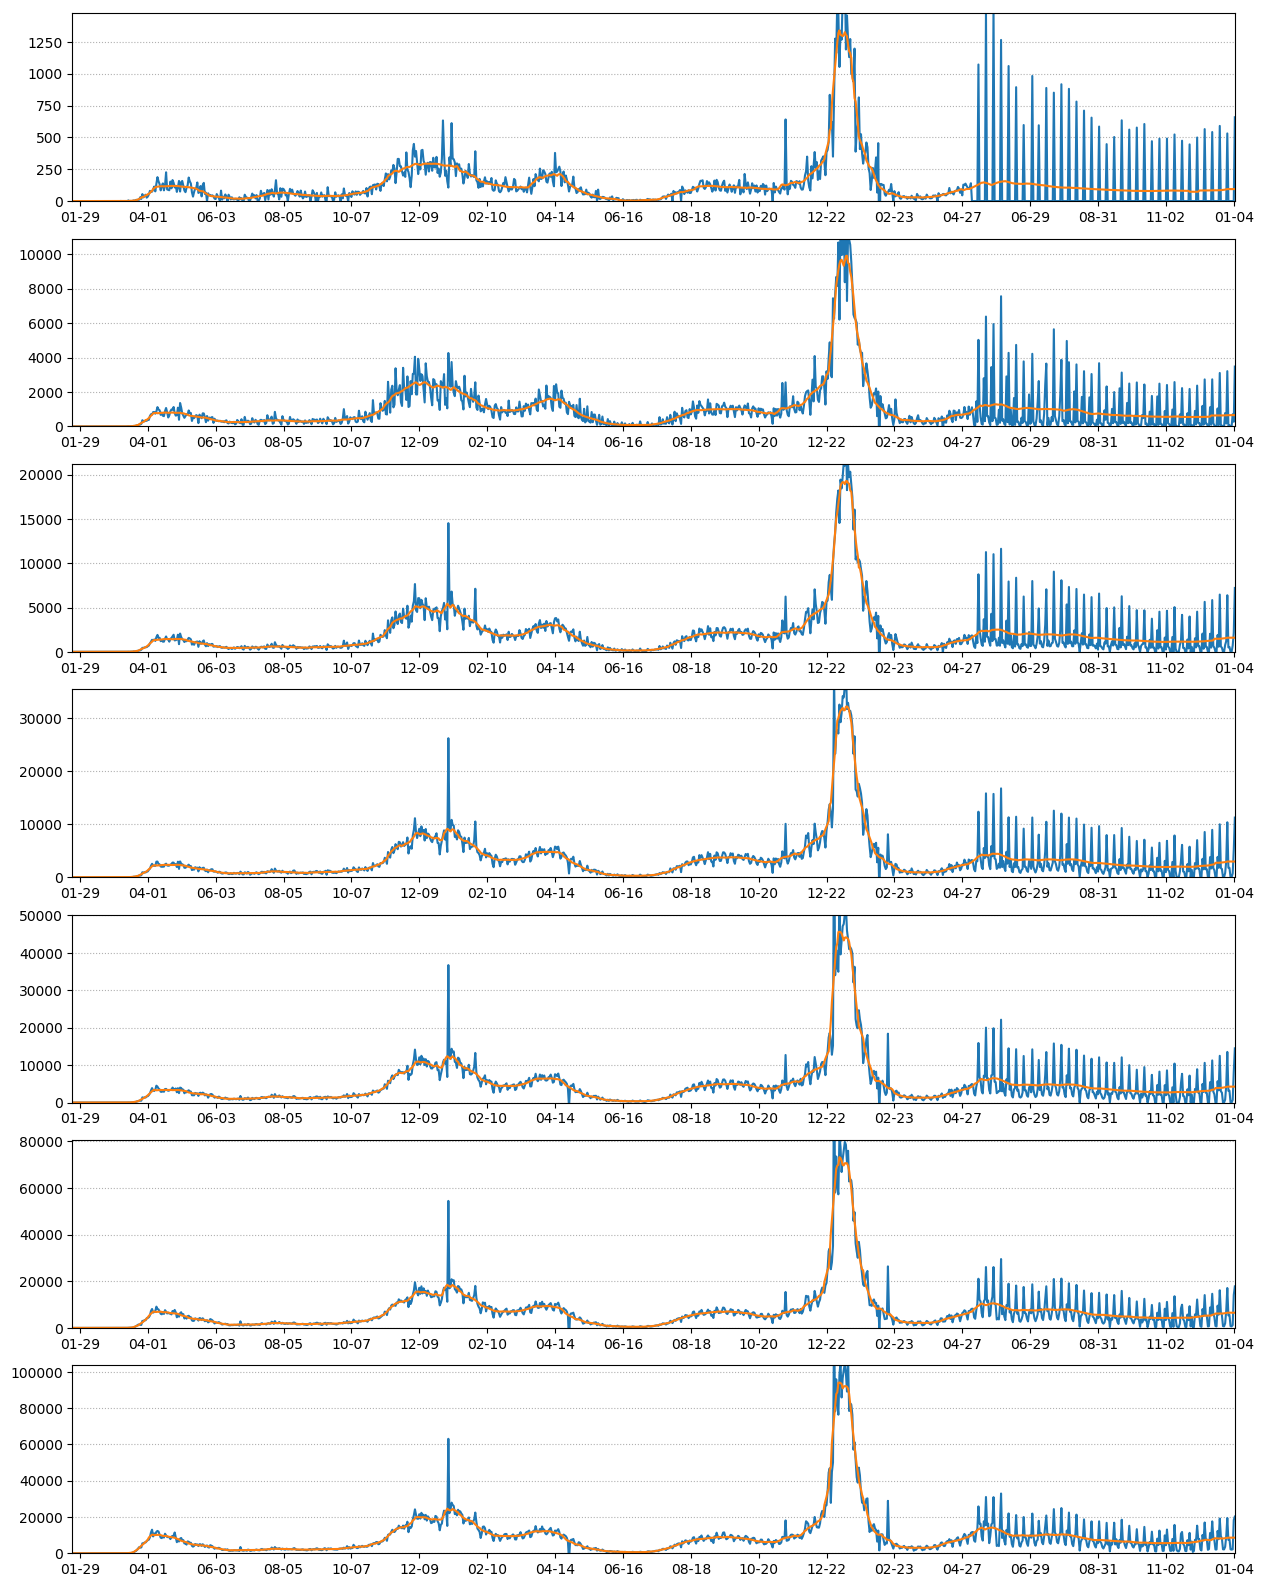
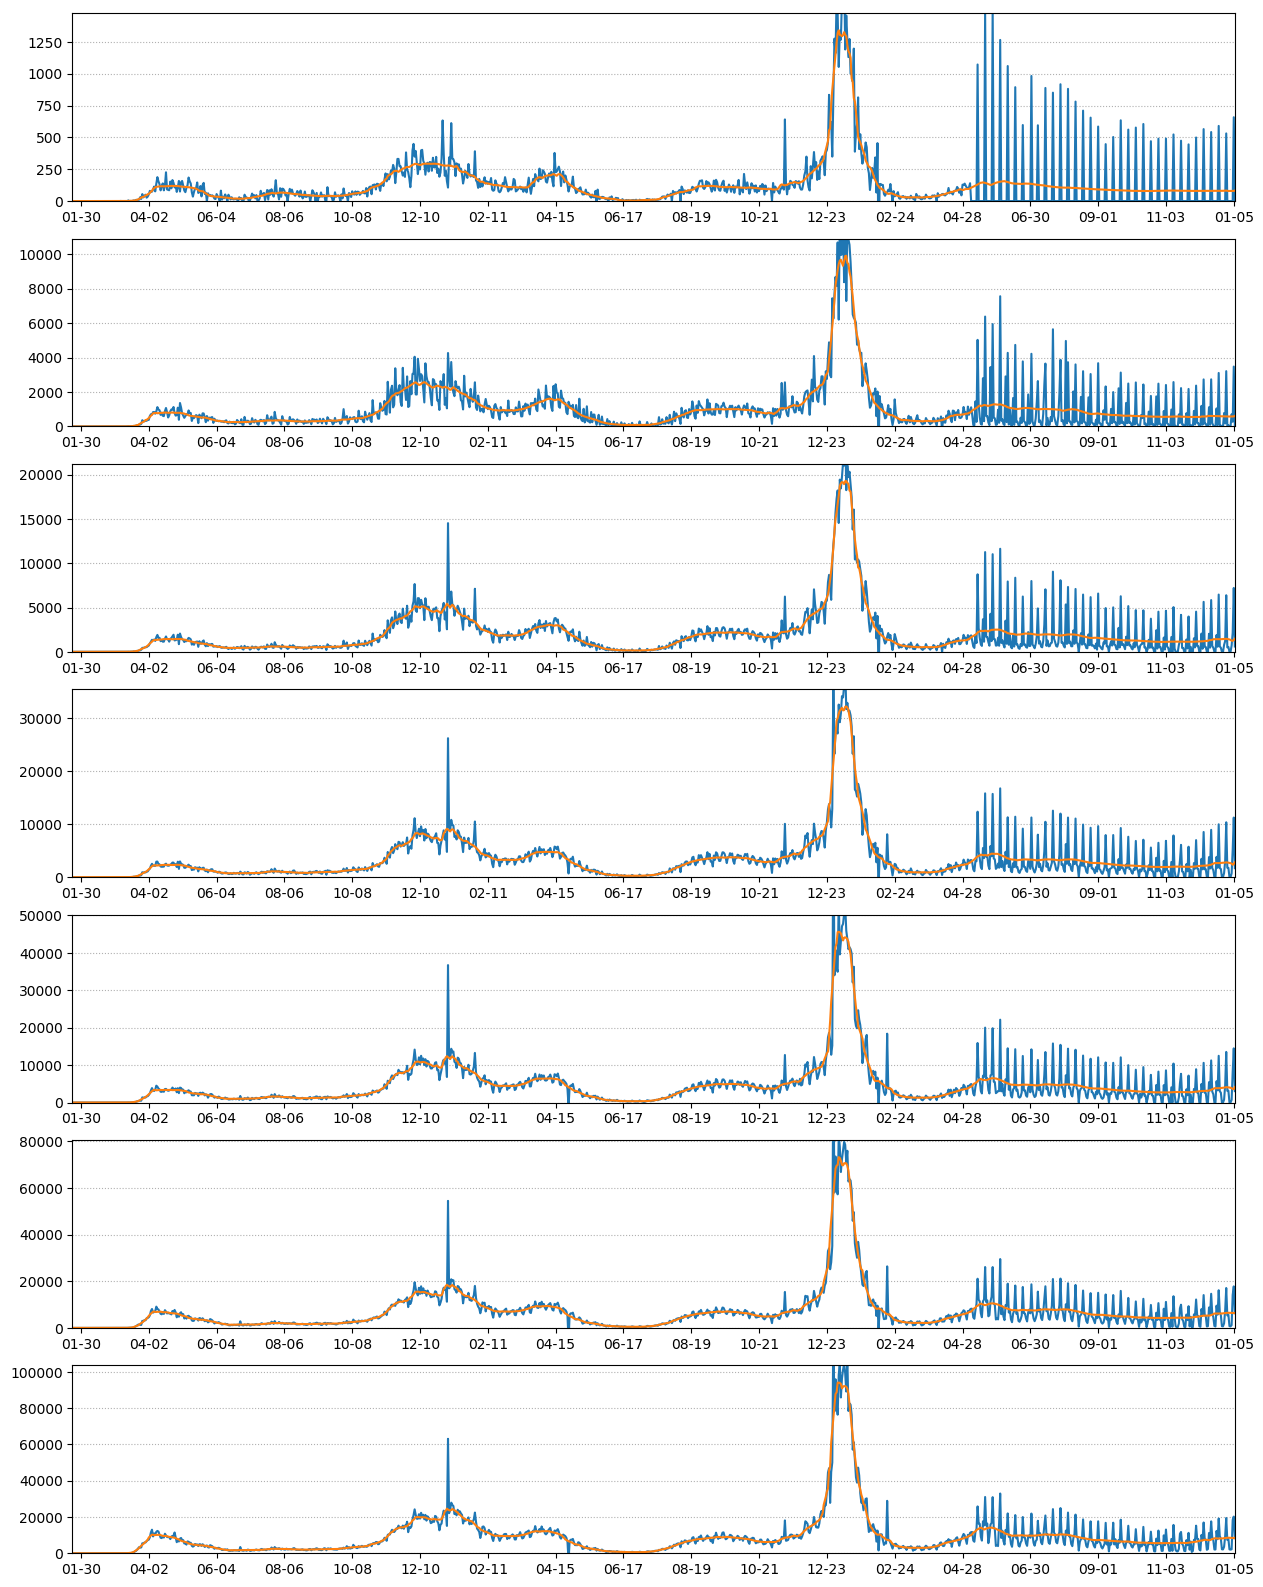
daily forecast

diff --git a/dailymessage.html b/dailymessage.html
@@ -1,46 +1,46 @@
 Delaware County COVID-19 Monitor<br>
-as of 2023-01-04<br>
+as of 2023-01-05<br>
 <table border="1" cellspacing="5" cellpadding="3">
 <tr>
 <td>0</td>
-<td>94</td>
+<td>82</td>
 <td>566747</td>
-<td>16.5</td>
+<td>14.4</td>
 </tr>
 <tr>
 <td>1</td>
-<td>656</td>
+<td>615</td>
 <td>4357104</td>
-<td>15.0</td>
+<td>14.1</td>
 </tr>
 <tr>
 <td>2</td>
-<td>1592</td>
+<td>1469</td>
 <td>8052045</td>
-<td>19.7</td>
+<td>18.2</td>
 </tr>
 <tr>
 <td>3</td>
-<td>2948</td>
+<td>2791</td>
 <td>13327166</td>
-<td>22.1</td>
+<td>20.9</td>
 </tr>
 <tr>
 <td>4</td>
-<td>4249</td>
+<td>4108</td>
 <td>18498878</td>
-<td>22.9</td>
+<td>22.2</td>
 </tr>
 <tr>
 <td>5</td>
-<td>6514</td>
+<td>6480</td>
 <td>27240755</td>
-<td>23.9</td>
+<td>23.7</td>
 </tr>
 <tr>
 <td>6</td>
-<td>8605</td>
+<td>8564</td>
 <td>34871340</td>
-<td>24.6</td>
+<td>24.5</td>
 </tr>
 </table>
